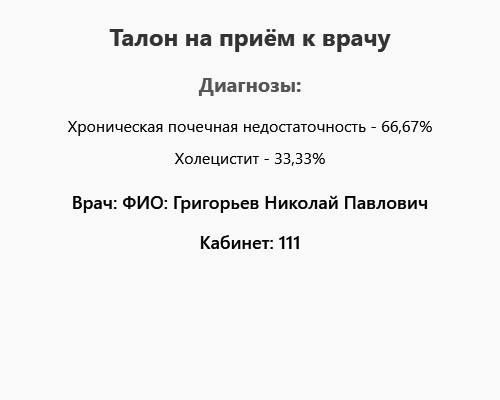
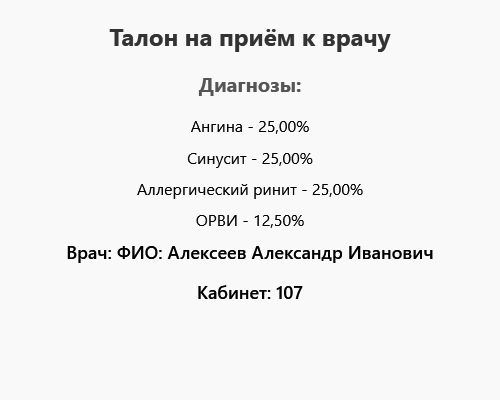
.

diff --git a/ClinicAssistant/DiagnosesWindow.xaml.cs b/ClinicAssistant/DiagnosesWindow.xaml.cs
@@ -17,9 +17,9 @@ namespace ClinicAssistant
         private readonly int patientId;
         private readonly DatabaseFacade dbFacade = new DatabaseFacade();
 
-        private readonly string connectionString = "data source=localhost;initial catalog=PomoshnikPolicliniki8;integrated security=True;encrypt=False;MultipleActiveResultSets=True;";
+        //private readonly string connectionString = "data source=localhost;initial catalog=PomoshnikPolicliniki8;integrated security=True;encrypt=False;MultipleActiveResultSets=True;";
 
-        //private readonly string connectionString = "data source = 192.168.147.54; initial catalog = PomoshnikPolicliniki; persist security info=True;user id =is; password=1;MultipleActiveResultSets=True;App=EntityFramework";
+        private readonly string connectionString = "data source = 192.168.147.54; initial catalog = PomoshnikPolicliniki8; persist security info=True;user id =is; password=1;MultipleActiveResultSets=True;App=EntityFramework";
 
         public ObservableCollection<DiagnosisData> Diagnoses { get; set; } = new ObservableCollection<DiagnosisData>();
 
@@ -85,8 +85,8 @@ namespace ClinicAssistant
         {
             try
             {
-                // Словарь для подсчёта количества диагнозов, которые лечит каждый врач
-                var doctorDiagnosisCount = new Dictionary<int, (string FullName, string OfficeNumber, string Specialty, int Count)>();
+                // Dictionary to store doctor specialties and their cumulative percentage
+                var specialtyPercentage = new Dictionary<string, double>();
 
                 foreach (var diagnosisId in topDiagnosisIds)
                 {
@@ -94,59 +94,63 @@ namespace ClinicAssistant
 
                     foreach (var doctor in doctors)
                     {
-                        if (doctorDiagnosisCount.ContainsKey(doctor.DoctorID))
+                        if (specialtyPercentage.ContainsKey(doctor.Specialty))
                         {
-                            doctorDiagnosisCount[doctor.DoctorID] = (
-                                doctor.FullName,
-                                doctor.OfficeNumber,
-                                doctor.Specialty,
-                                doctorDiagnosisCount[doctor.DoctorID].Count + 1
-                            );
+                            specialtyPercentage[doctor.Specialty] += 1.0 / topDiagnosisIds.Count * 100;
                         }
                         else
                         {
-                            doctorDiagnosisCount[doctor.DoctorID] = (
-                                doctor.FullName,
-                                doctor.OfficeNumber,
-                                doctor.Specialty,
-                                1
-                            );
+                            specialtyPercentage[doctor.Specialty] = 1.0 / topDiagnosisIds.Count * 100;
                         }
                     }
                 }
 
-                // Определяем врача, который лечит больше всего "победивших" диагнозов
-                var bestDoctor = doctorDiagnosisCount
-                    .OrderByDescending(d => d.Value.Count)
-                    .FirstOrDefault();
-
-                if (doctorDiagnosisCount.Count == 0)
+                if (!specialtyPercentage.Any())
                 {
                     DoctorInfoTextBlock.Text = "Врачи не назначены для данных диагнозов.";
+                    return;
                 }
-                else if (doctorDiagnosisCount.Values.All(d => d.Count == 1))
+
+                // Determine the leader based on percentage
+                var maxPercentage = specialtyPercentage.Values.Max();
+                var topSpecialties = specialtyPercentage
+                    .Where(s => Math.Abs(s.Value - maxPercentage) < 0.01) // Account for floating-point precision
+                    .Select(s => s.Key)
+                    .ToList();
+
+                string selectedSpecialty;
+
+                if (topSpecialties.Count == 1)
                 {
-                    // Если все врачи лечат только по одному диагнозу, выбираем врача с Specialty = "Терапевт"
-                    var fallbackDoctor = await dbFacade.GetDoctorBySpecialtyAsync("Терапевт");
-                    if (fallbackDoctor.HasValue)
-                    {
-                        DoctorInfoTextBlock.Text = $"ФИО: {fallbackDoctor.Value.FullName}, Кабинет: {fallbackDoctor.Value.OfficeNumber}";
-                    }
-                    else
-                    {
-                        // Если терапевт не найден, выбираем первого попавшегося врача
-                        DoctorInfoTextBlock.Text = $"ФИО: {bestDoctor.Value.FullName}, Кабинет: {bestDoctor.Value.OfficeNumber}";
-                    }
+                    // Clear leader
+                    selectedSpecialty = topSpecialties.First();
+                }
+                else if (topSpecialties.Contains("Терапевт"))
+                {
+                    // If there's a tie, prioritize "Терапевт"
+                    selectedSpecialty = "Терапевт";
                 }
                 else
                 {
-                    // Выводим врача, который лечит больше всего диагнозов
-                    DoctorInfoTextBlock.Text = $"ФИО: {bestDoctor.Value.FullName}, Кабинет: {bestDoctor.Value.OfficeNumber}";
+                    // Fallback to the first specialty in the list
+                    selectedSpecialty = topSpecialties.First();
+                }
+
+                // Fetch doctor details for the selected specialty
+                var fallbackDoctor = await dbFacade.GetDoctorBySpecialtyAsync(selectedSpecialty);
+
+                if (fallbackDoctor.HasValue)
+                {
+                    DoctorInfoTextBlock.Text = $"ФИО: {fallbackDoctor.Value.FullName}, Кабинет: {fallbackDoctor.Value.OfficeNumber}";
+                }
+                else
+                {
+                    DoctorInfoTextBlock.Text = "Не удалось найти врача по выбранной специальности.";
                 }
             }
             catch (Exception ex)
             {
-                MessageBox.Show("Ошибка при загрузке информации о враче: " + ex.Message, "Ошибка", MessageBoxButton.OK, MessageBoxImage.Error);
+                MessageBox.Show($"Ошибка при загрузке информации о враче: {ex.Message}", "Ошибка", MessageBoxButton.OK, MessageBoxImage.Error);
             }
         }
 

diff --git a/ClinicAssistant/FollowUpQuestionsWindow.xaml.cs b/ClinicAssistant/FollowUpQuestionsWindow.xaml.cs
@@ -15,8 +15,8 @@ namespace ClinicAssistant
     {
         private readonly int patientId;
         private readonly DatabaseFacade dbFacade = new DatabaseFacade();
-        private readonly string connectionString = "data source=localhost;initial catalog=PomoshnikPolicliniki8;integrated security=True;encrypt=False;MultipleActiveResultSets=True;";
-        //private readonly string connectionString = "data source = 192.168.147.54; initial catalog = PomoshnikPolicliniki; persist security info=True;user id =is; password=1;MultipleActiveResultSets=True;App=EntityFramework";
+        //private readonly string connectionString = "data source=localhost;initial catalog=PomoshnikPolicliniki8;integrated security=True;encrypt=False;MultipleActiveResultSets=True;";
+        private readonly string connectionString = "data source = 192.168.147.54; initial catalog = PomoshnikPolicliniki8; persist security info=True;user id =is; password=1;MultipleActiveResultSets=True;App=EntityFramework";
 
         // Коллекция для хранения вопросов
         public ObservableCollection<QuestionViewModel> Questions { get; set; } = new ObservableCollection<QuestionViewModel>();

diff --git a/ClinicAssistant/SymptomChooseWindow.xaml.cs b/ClinicAssistant/SymptomChooseWindow.xaml.cs
@@ -15,9 +15,9 @@ namespace ClinicAssistant
     {
         private readonly int patientId;
 
-        private readonly string connectionString = "data source=localhost;initial catalog=PomoshnikPolicliniki8;integrated security=True;encrypt=False;MultipleActiveResultSets=True;";
+        //private readonly string connectionString = "data source=localhost;initial catalog=PomoshnikPolicliniki8;integrated security=True;encrypt=False;MultipleActiveResultSets=True;";
 
-        //private readonly string connectionString = "data source = 192.168.147.54; initial catalog = PomoshnikPolicliniki; persist security info=True;user id =is; password=1;MultipleActiveResultSets=True;App=EntityFramework";
+        private readonly string connectionString = "data source = 192.168.147.54; initial catalog = PomoshnikPolicliniki8; persist security info=True;user id =is; password=1;MultipleActiveResultSets=True;App=EntityFramework";
 
         // Коллекция для хранения симптомов
         private ObservableCollection<Symptom> allSymptoms = new ObservableCollection<Symptom>();

diff --git a/ClinicAssistant/AddWindow.xaml.cs b/ClinicAssistant/AddWindow.xaml.cs
@@ -11,8 +11,8 @@ namespace ClinicAssistant
 {
     public partial class AddWindow : Window
     {
-        //private string connectionString = "data source = 192.168.147.54; initial catalog = PomoshnikPolicliniki; persist security info=True;user id =is; password=1;MultipleActiveResultSets=True;App=EntityFramework";
-        private string connectionString = "data source=localhost;initial catalog=PomoshnikPolicliniki8;integrated security=True;encrypt=False;MultipleActiveResultSets=True;";
+        private string connectionString = "data source = 192.168.147.54; initial catalog = PomoshnikPolicliniki8; persist security info=True;user id =is; password=1;MultipleActiveResultSets=True;App=EntityFramework";
+        //private string connectionString = "data source=localhost;initial catalog=PomoshnikPolicliniki8;integrated security=True;encrypt=False;MultipleActiveResultSets=True;";
         private List<dynamic> symptoms = new List<dynamic>();
         private List<dynamic> questions = new List<dynamic>();
         public AddWindow()

diff --git a/ClinicAssistant/DeleteWindow.xaml.cs b/ClinicAssistant/DeleteWindow.xaml.cs
@@ -13,9 +13,9 @@ namespace ClinicAssistant
     public partial class DeleteWindow : Window
     {
         // Строка подключения к базе данных
-        private readonly string connectionString = "data source=localhost;initial catalog=PomoshnikPolicliniki8;integrated security=True;encrypt=False;MultipleActiveResultSets=True;";
+        //private readonly string connectionString = "data source=localhost;initial catalog=PomoshnikPolicliniki8;integrated security=True;encrypt=False;MultipleActiveResultSets=True;";
 
-        //private readonly string connectionString = "data source = 192.168.147.54; initial catalog = PomoshnikPolicliniki; persist security info=True;user id =is; password=1;MultipleActiveResultSets=True;App=EntityFramework";
+        private readonly string connectionString = "data source = 192.168.147.54; initial catalog = PomoshnikPolicliniki8; persist security info=True;user id =is; password=1;MultipleActiveResultSets=True;App=EntityFramework";
 
         public DeleteWindow()
         {

diff --git a/ClinicAssistant/AnswerDiagnosisLinkWindow.xaml.cs b/ClinicAssistant/AnswerDiagnosisLinkWindow.xaml.cs
@@ -9,9 +9,9 @@ namespace ClinicAssistant
 {
     public partial class AnswerDiagnosisLinkWindow : Window
     {
-        //private string connectionString = "data source = 192.168.147.54; initial catalog = PomoshnikPolicliniki; persist security info=True;user id =is; password=1;MultipleActiveResultSets=True;App=EntityFramework";
+        private string connectionString = "data source = 192.168.147.54; initial catalog = PomoshnikPolicliniki8; persist security info=True;user id =is; password=1;MultipleActiveResultSets=True;App=EntityFramework";
 
-        private string connectionString = "data source=localhost;initial catalog=PomoshnikPolicliniki8;integrated security=True;encrypt=False;MultipleActiveResultSets=True;";
+        //private string connectionString = "data source=localhost;initial catalog=PomoshnikPolicliniki8;integrated security=True;encrypt=False;MultipleActiveResultSets=True;";
         private List<dynamic> answers = new List<dynamic>();
         private List<dynamic> diagnoses = new List<dynamic>();
 

diff --git a/ClinicAssistant/DiagnosisDoctorLinkWindow.xaml.cs b/ClinicAssistant/DiagnosisDoctorLinkWindow.xaml.cs
@@ -9,9 +9,9 @@ namespace ClinicAssistant
 {
     public partial class DiagnosisDoctorLinkWindow : Window
     {
-        private string connectionString = "data source=localhost;initial catalog=PomoshnikPolicliniki8;integrated security=True;encrypt=False;MultipleActiveResultSets=True;";
+        //private string connectionString = "data source=localhost;initial catalog=PomoshnikPolicliniki8;integrated security=True;encrypt=False;MultipleActiveResultSets=True;";
 
-        //private string connectionString = "data source = 192.168.147.54; initial catalog = PomoshnikPolicliniki; persist security info=True;user id =is; password=1;MultipleActiveResultSets=True;App=EntityFramework";
+        private string connectionString = "data source = 192.168.147.54; initial catalog = PomoshnikPolicliniki8; persist security info=True;user id =is; password=1;MultipleActiveResultSets=True;App=EntityFramework";
         private List<dynamic> diagnoses = new List<dynamic>();
         private List<dynamic> doctors = new List<dynamic>();
 

diff --git a/ClinicAssistant/DatabaseFacade.cs b/ClinicAssistant/DatabaseFacade.cs
@@ -9,9 +9,9 @@ namespace ClinicAssistant
 {
     public class DatabaseFacade
     {
-        //private readonly string connectionString = "data source=192.168.147.54;initial catalog=PomoshnikPolicliniki;persist security info=True;user id=is;password=1;MultipleActiveResultSets=True;App=EntityFramework";
+        private readonly string connectionString = "data source=192.168.147.54;initial catalog=PomoshnikPolicliniki8;persist security info=True;user id=is;password=1;MultipleActiveResultSets=True;App=EntityFramework";
 
-        private readonly string connectionString = "data source=localhost;initial catalog=PomoshnikPolicliniki8;integrated security=True;encrypt=False;MultipleActiveResultSets=True;";
+        //private readonly string connectionString = "data source=localhost;initial catalog=PomoshnikPolicliniki8;integrated security=True;encrypt=False;MultipleActiveResultSets=True;";
 
         public int AddPatient(string fullName, int age, string gender)
         {
